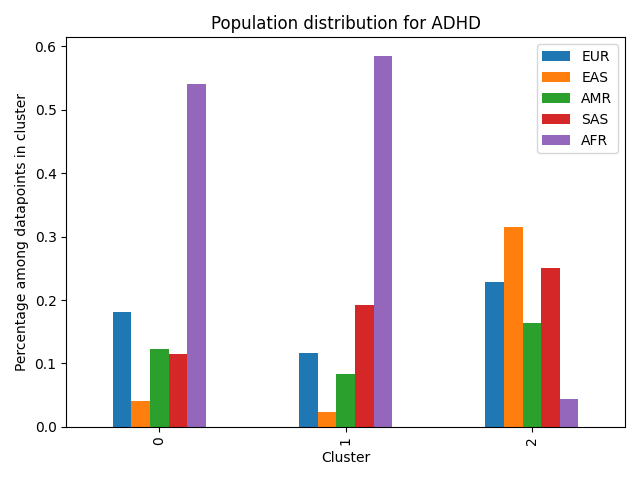
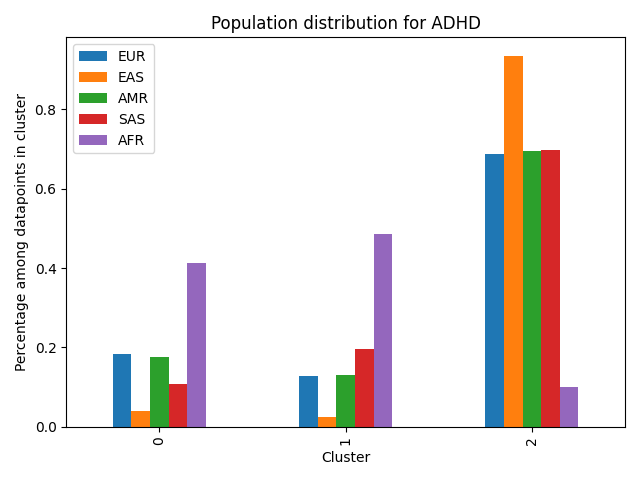
pop_dist changed

diff --git a/eval/eval.py b/eval/eval.py
@@ -186,7 +186,7 @@ class Eval:
     def get_pop_dist(self, use_superpop=True):
         '''
         Generates a table (num_clusters x num_populations)
-        of percentages of each population in each cluster
+        of percentages of each population in each cluster (adding up to 1 per population)
         use_superpop : denotes to use superpopulation(broader e.g. EURopean)
                        instead of population(e.g. FINnish)
 
@@ -208,7 +208,7 @@ class Eval:
                 label = pop[1] if use_superpop else pop[0]
                 pop_dist[cluster_idx, pop_idx_dict[label]] += 1
 
-        pop_dist = (pop_dist.T / np.sum(pop_dist, axis=1)).T
+        pop_dist = pop_dist / np.sum(pop_dist, axis=0)
         pop_dist_df = pd.DataFrame(data = pop_dist, \
                 index = list(range(self.num_clusters)), columns = list_pops)
 
